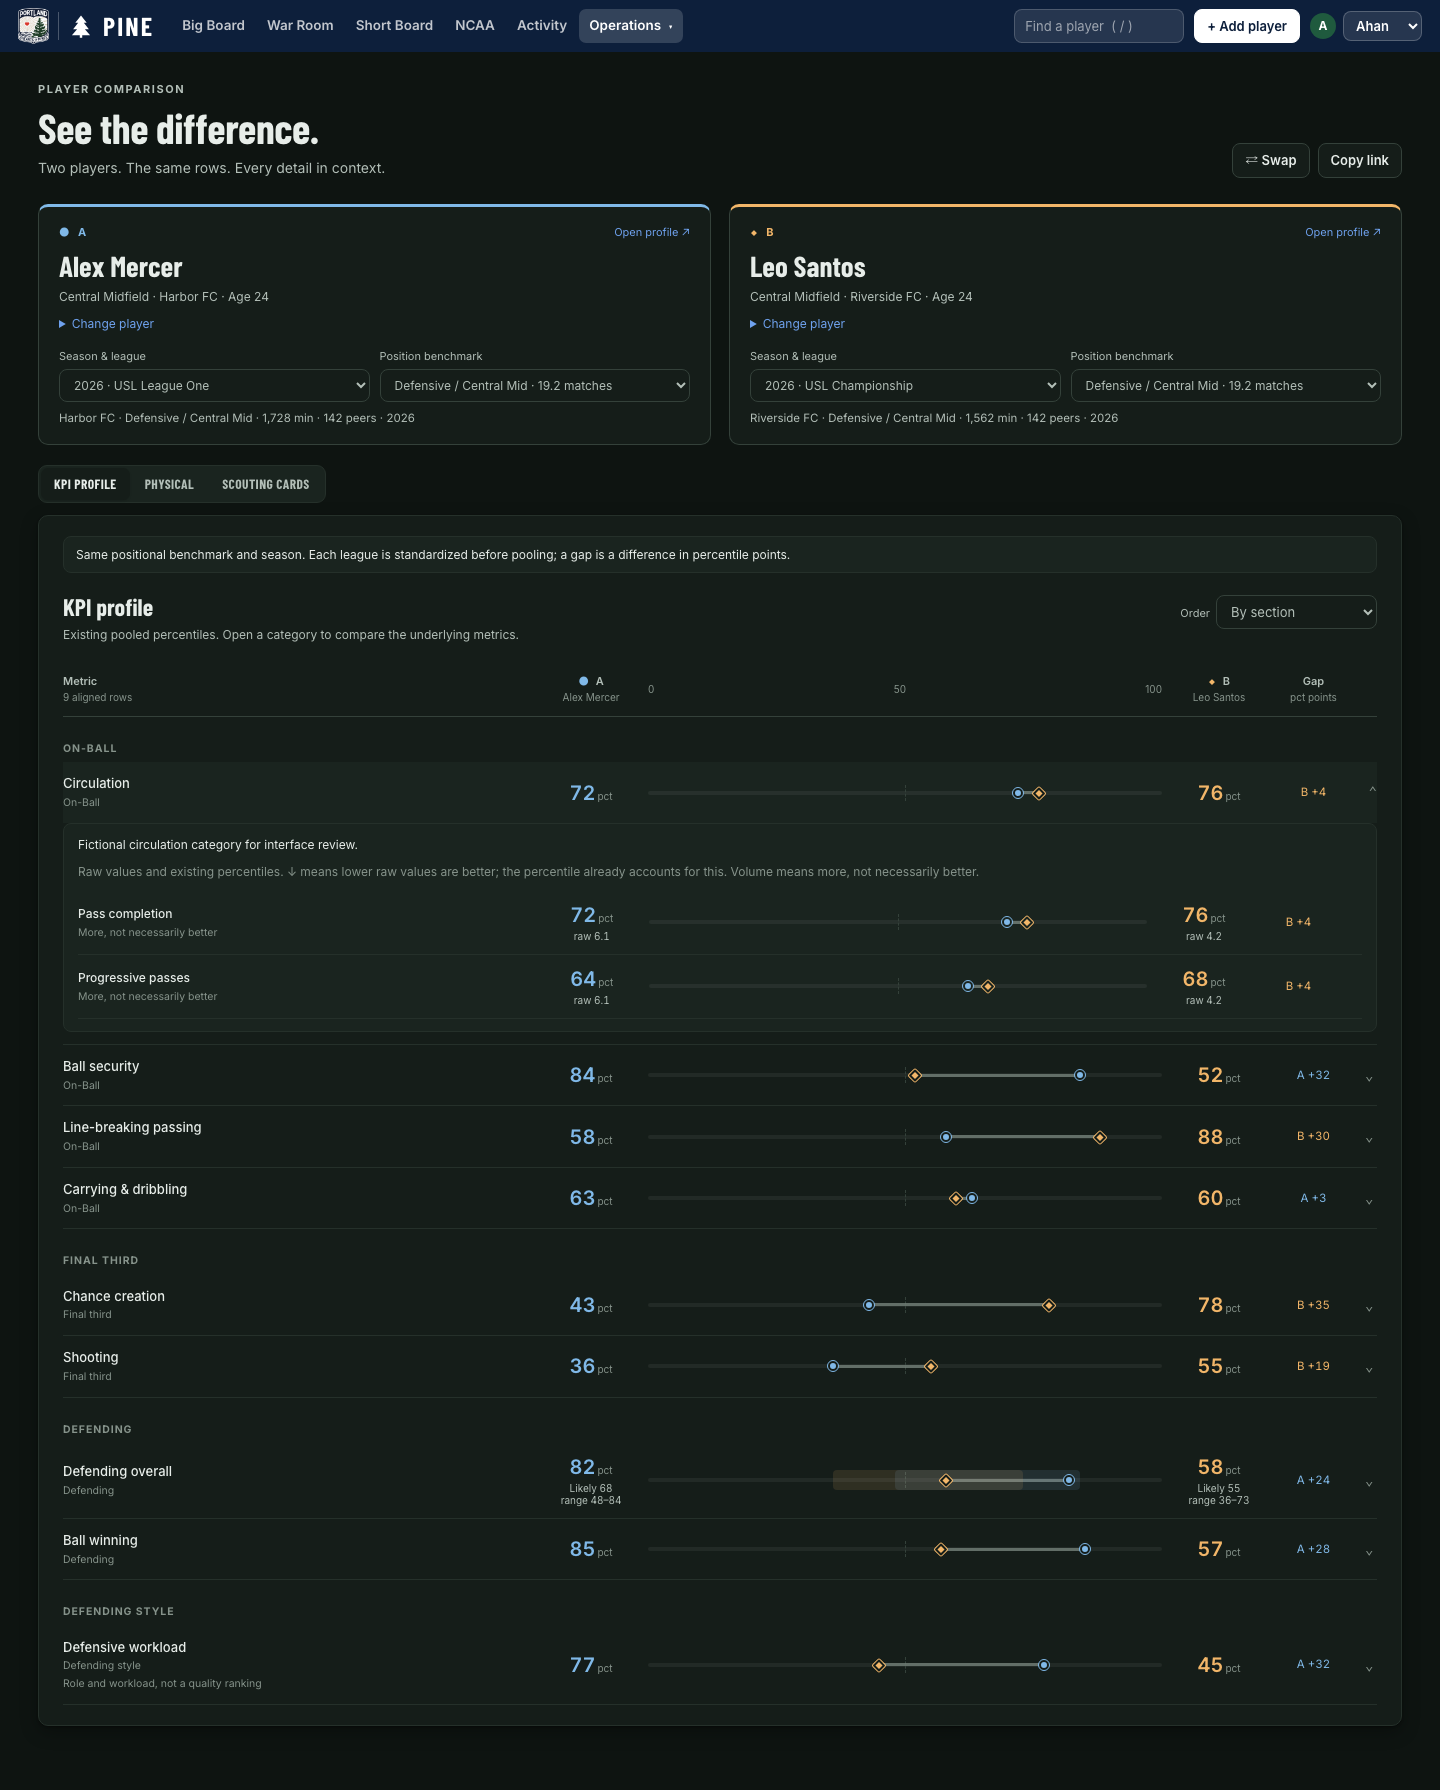
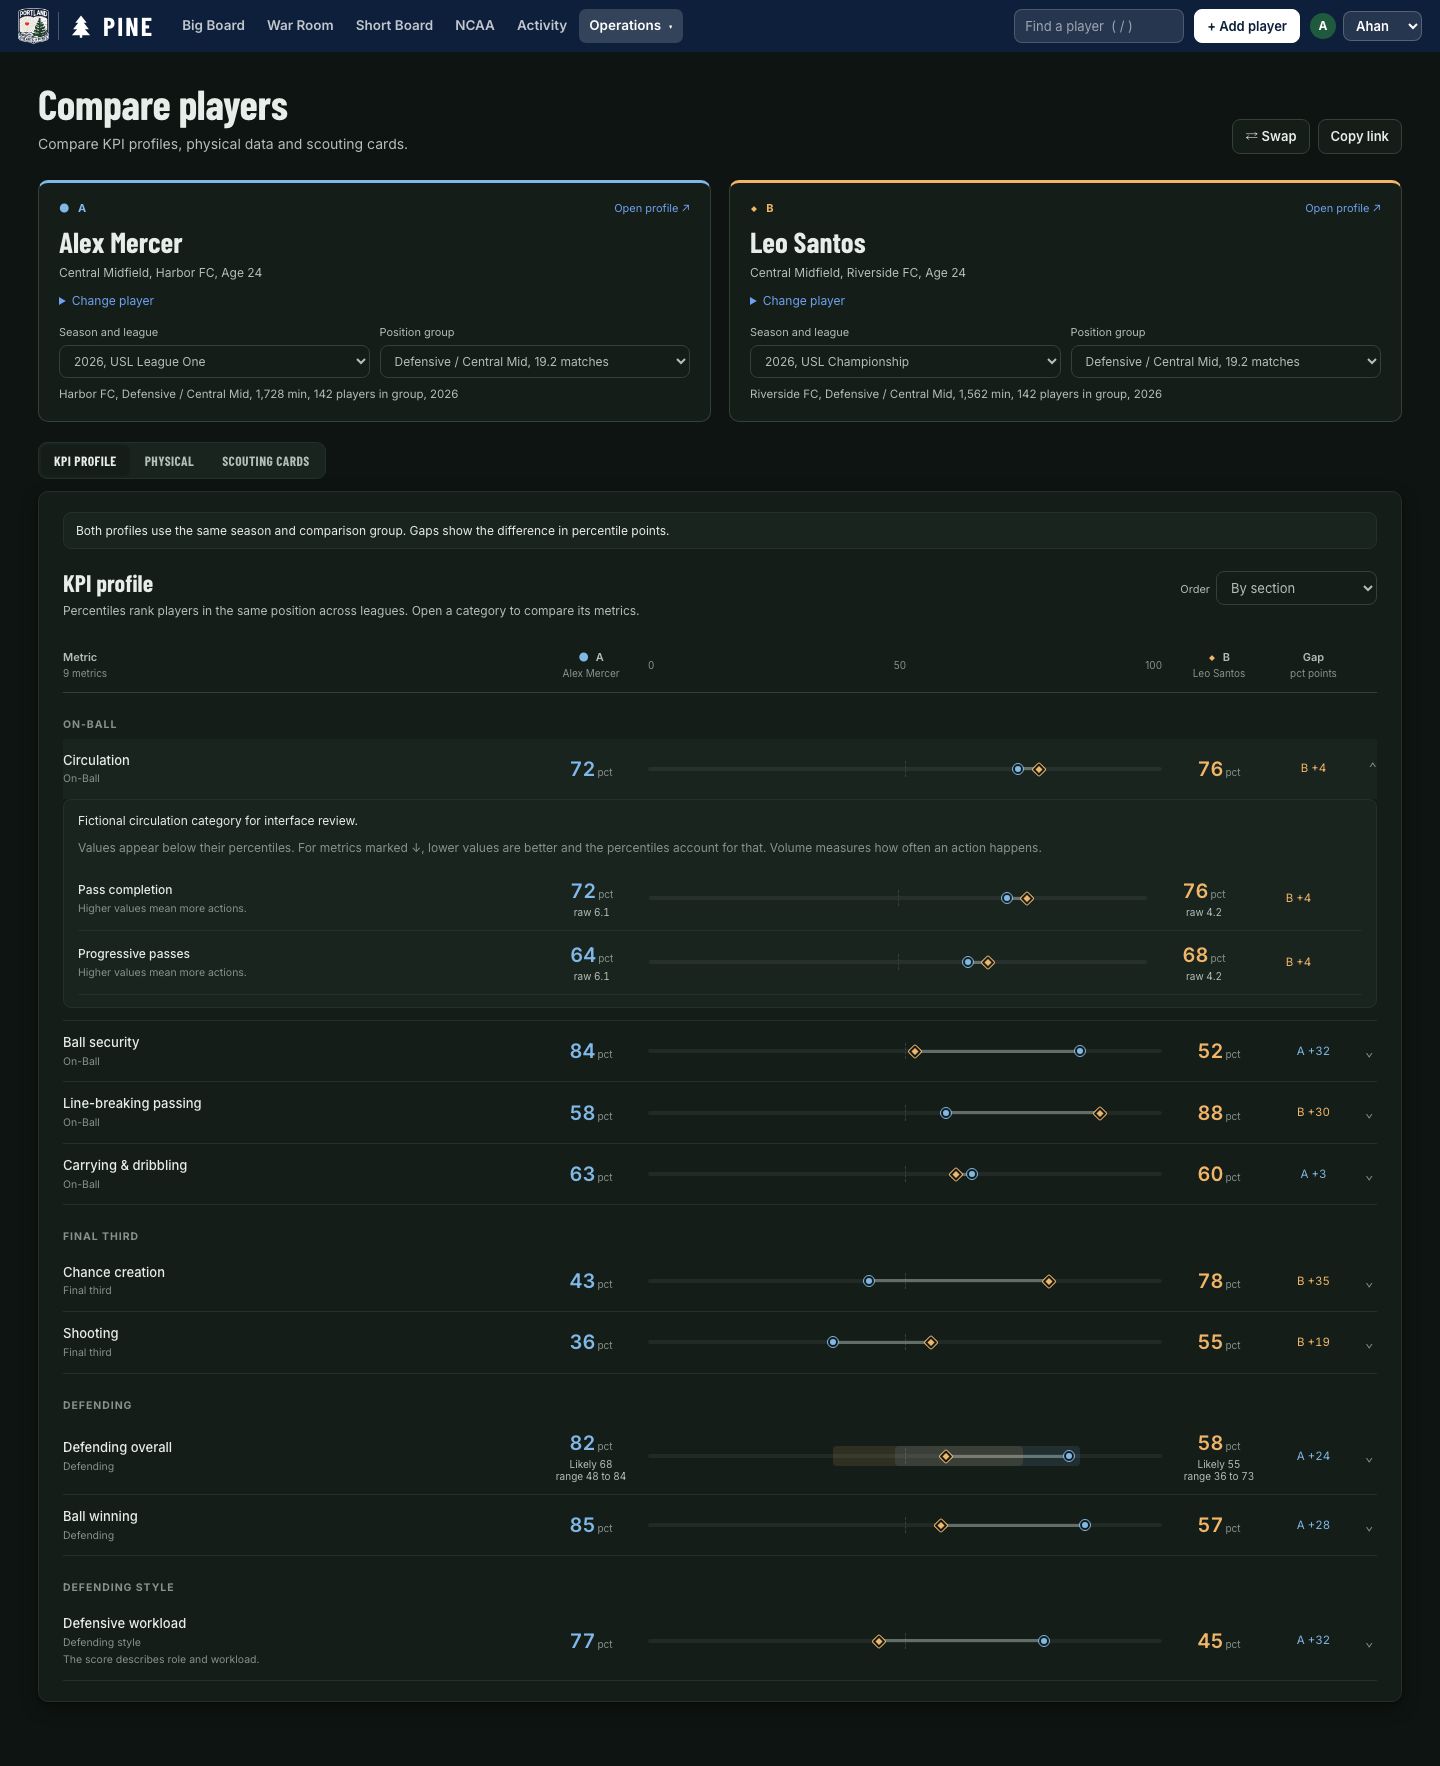
Use plain language in player comparisons

diff --git a/public/comparison-data.js b/public/comparison-data.js
@@ -59,10 +59,10 @@ export function kpiRows(data) {
   return (data.phases || []).flatMap(phase => (data.categories || []).filter(c => c.phase === phase.id).map(c => ({
     id: `category:${c.name}`, label: c.label, group: phase.name, description: c.description,
     percentile: pct(c.percentile), direction: 'higher', outlook: c.outlook,
-    note: c.phase === 'defstyle' ? 'Role and workload, not a quality ranking' : '',
+    note: c.phase === 'defstyle' ? 'The score describes role and workload.' : '',
     children: (c.components || []).map(m => ({ id: m.metric, label: m.label, group: m.kind,
       value: m.value, percentile: pct(m.percentile), direction: m.inverted ? 'lower' : 'higher',
-      note: m.inverted ? 'Lower raw values are better; percentile already accounts for this' : m.kind === 'volume' ? 'More, not necessarily better' : '',
+      note: m.inverted ? 'Lower values are better, and percentiles account for that.' : m.kind === 'volume' ? 'Higher values mean more actions.' : '',
       description: m.meaning || m.definition,
     })),
   })));
@@ -84,14 +84,14 @@ export function scoutingRows(envelope) {
   const r = envelope?.render_input, profile = r?.subject?.profiles?.[0];
   if (r?.schema_version !== 16 || !profile) return [];
   const tiles = Object.entries(r.value || {}).flatMap(([family, metrics]) => metrics.map((metric, i) => ({
-    id: `tile:${metric}`, label: `${family} · ${['Overall', 'Attack', 'Defend'][i] || metric}`, group: 'Value',
+    id: `tile:${metric}`, label: `${family}, ${['Overall', 'Attack', 'Defend'][i] || metric}`, group: 'Value',
     percentile: pct(profile.percentiles?.[metric]), direction: 'higher',
   })));
   const names = { overall: 'Overall', passing: 'Passing', receiving: 'Receiving', carrying: 'Carrying', shooting: 'Shooting', defending: 'Defending', set_pieces: 'Set pieces' };
   return [...tiles, ...(profile.grid || []).filter(m => m.metric && !m.film).map(m => ({
     id: `metric:${m.metric}`, label: m.name || m.short, group: names[m.bucket] || m.bucket,
     value: m.value, percentile: m.rare ? null : pct(m.percentile), direction: m.direction,
-    note: m.rare ? 'Rare for this position; percentile not graded' : m.code === 'D' ? 'Describes style or volume; not a quality ranking' : m.direction === 'lower' ? 'Lower raw values are better; percentile already accounts for this' : '',
+    note: m.rare ? 'The action is rare for the position and has no percentile.' : m.code === 'D' ? 'The metric describes playing style or how often actions occur.' : m.direction === 'lower' ? 'Lower values are better, and percentiles account for that.' : '',
     rare: m.rare,
   }))];
 }

diff --git a/public/styles.css b/public/styles.css
@@ -1175,7 +1175,6 @@ details[open] > summary .kpi-chev { transform: rotate(45deg); }
 .cmp-0 { --cmp-color: var(--cmp-a); }
 .cmp-1 { --cmp-color: var(--cmp-b); }
 .cmp-heading { display: flex; justify-content: space-between; align-items: end; gap: 16px; margin: 12px 0 26px; }
-.cmp-eyebrow { color: var(--ink-2); font-size: 11px; letter-spacing: .14em; font-weight: 700; margin-bottom: 8px; }
 .cmp-heading h1 { font: 700 42px/1 var(--disp); letter-spacing: -.01em; }
 .cmp-heading p { color: var(--ink-2); margin: 10px 0 0; }
 .cmp-players { display: grid; grid-template-columns: repeat(2, minmax(0, 1fr)); gap: 18px; }

diff --git a/README.md b/README.md
@@ -397,7 +397,13 @@ syncs leave the signing status alone.
   panel shows under "Generating" so staff know why a card that downloads Impect match data first is slower.
   Every version is kept and any signed-in staff member can open it. One card per player can be in progress, and at most 30 are
   requested across PINE per 24 hours.
-- **Compare players** (`#/compare`): open from Operations or **Compare with…** on a player profile. Pick two players and compare KPI profiles, physical data and saved scouting cards on aligned rows with a shared 0–100 scale, raw values, and percentile-point gaps. Sort by section, largest differences or closest values; expand KPI categories for paired metrics. Season, position, physical row and card-version choices are independent and travel in the comparison URL. Gaps and difference sorting are disabled when benchmark contexts differ. Scouting metrics use supported saved snapshots (render schema 16); older cards remain available as aligned previews/PDFs, with linked zoom/pan and an A/B view. No new scores, data writes or card-generation jobs are created.
+- **Compare players** (`#/compare`): open from Operations or **Compare with…** on a player profile.
+  Compare KPI profiles, physical data and saved scouting cards on the same rows and a shared scale from 0 to 100.
+  Sort by section, largest differences or closest values, and open KPI categories to see their metrics.
+  You can choose each player's season, position, physical data and saved card separately, and share your selections by copying the link.
+  Percentile gaps and sorting by difference are unavailable when the comparison groups differ.
+  The scouting table uses saved card data in render schema 16. You can also compare the original cards with linked zoom and scrolling,
+  side by side or in A/B view, and open their PDFs. The comparison page uses existing data without creating scores or requesting new cards.
 - **Structured scouting cards**: complete renderer inputs can be stored as compressed JSON alongside each PDF, bound to its exact PDF bytes. See [snapshot storage, worker contract and backfill](docs/card-snapshots.md).
 - **Pitch maps**: a panel on the player page (Impect-linked players) under the player card. It shows the card's two
   activity maps (In attack, Defensive actions) for a season and position, with up to three metrics per map chosen
@@ -527,4 +533,4 @@ the Short Board flag for each role, and list membership, with a check time.
 Staff notes, verdicts, decisions, board ranks, and account data are excluded.
 The endpoint only reads the database and sends `Cache-Control: no-store`.
 
-For fictional comparison UI review, run `node scripts/preview-comparison.mjs` and open the printed URL. It uses a temporary database and demo data, with provider access disabled. Desktop/phone and light/dark examples are in `docs/screenshots/comparison/`.
+To review the comparison page with fictional players, run `node scripts/preview-comparison.mjs` and open the printed URL. The preview uses a temporary database and demo data, with provider access disabled. Screenshots for desktop and phone in light and dark mode are in `docs/screenshots/comparison/`.
